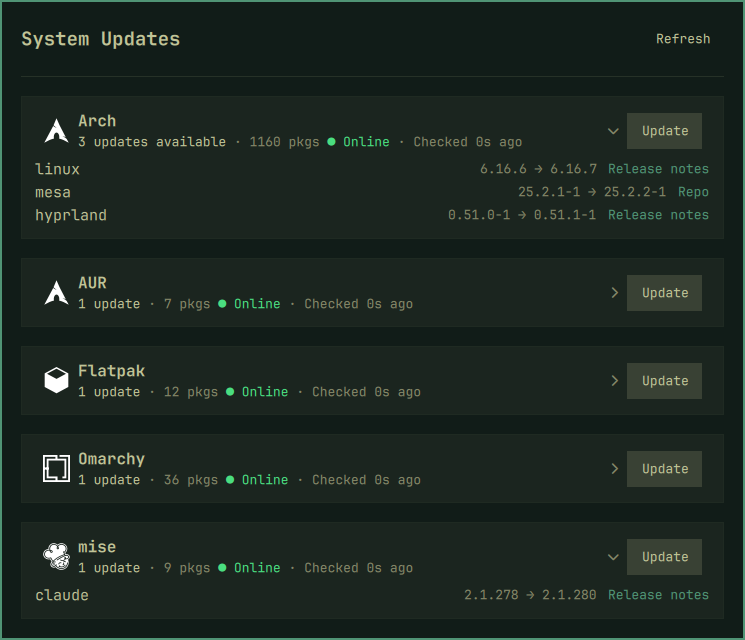
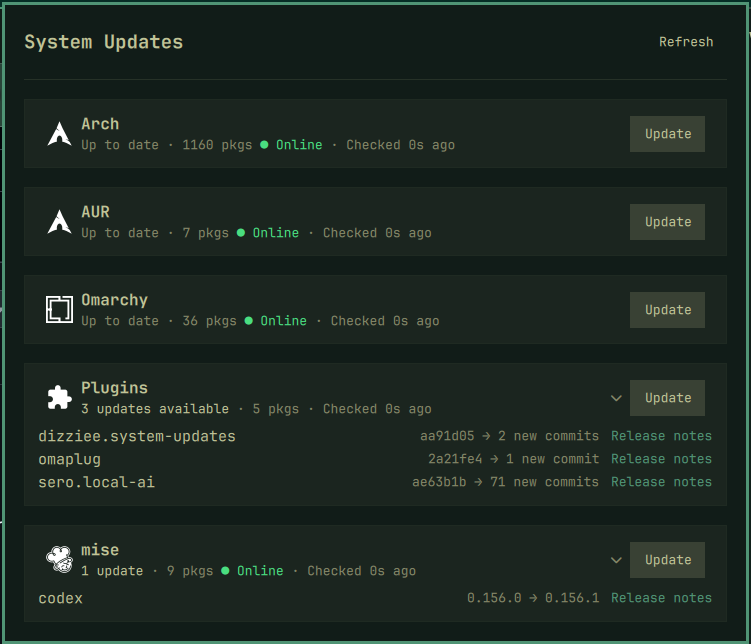
Add Omarchy plugins row with per-plugin update links
Tracks git-managed shell plugins under ~/.config/omarchy/plugins: fetch
origin HEAD per plugin and count commits HEAD is behind, mirroring
omarchy-plugin-update. Each plugin links to its git remote (SSH remotes
rewritten to https). Row hides when no git-managed plugins are installed.

diff --git a/Panel.qml b/Panel.qml
@@ -105,6 +105,7 @@ Panel {
     if (id === "aur") return Qt.resolvedUrl("assets/arch-logo.svg")
     if (id === "flatpak") return Qt.resolvedUrl("assets/flatpak.svg")
     if (id === "omarchy") return Qt.resolvedUrl("assets/omarchy.svg")
+    if (id === "plugins") return Qt.resolvedUrl("assets/plugins.svg")
     if (id === "mise") return Qt.resolvedUrl("assets/mise.svg")
     return ""
   }

diff --git a/scripts/check_updates.py b/scripts/check_updates.py
@@ -31,6 +31,13 @@ GITLAB_HOST_RE = re.compile(r"^https?://(?:www\.)?(gitlab[^/]*)\.([^/]+)/", re.I
 CODEBERG_RE = re.compile(r"^https?://(?:www\.)?codeberg\.org/([^/]+)/([^/#?]+)", re.I)
 # mise registry backends that name a GitHub repository directly.
 MISE_GITHUB_BACKEND_RE = re.compile(r"^(?:aqua|github):([^/\s]+)/([^/\s]+)$")
+# git@host:owner/repo and ssh://git@host/owner/repo remotes.
+SSH_REMOTE_RE = re.compile(r"^(?:ssh://)?(?:[^@/]+@)?([^:/]+)[:/](.+)$")
+
+# Omarchy shell plugins are git checkouts under this directory; "updates" are
+# commits fetched from origin that HEAD is behind.
+PLUGINS_DIR = Path(os.path.expanduser("~")) / ".config" / "omarchy" / "plugins"
+GIT_FETCH_TIMEOUT_S = 15
 
 
 def pkg_counts_cache_path() -> Path:
@@ -137,6 +144,22 @@ def installed_upstream_urls() -> dict[str, str]:
     return urls
 
 
+def normalize_remote(url: str | None) -> str:
+    """Turn a git remote into an https URL (handles git@host:owner/repo)."""
+    value = (url or "").strip()
+    if not value or value.lower().startswith(("http://", "https://")):
+        return value
+    if "://" in value and not value.lower().startswith("ssh://"):
+        return value
+    match = SSH_REMOTE_RE.match(value)
+    if match:
+        host = match.group(1)
+        path = re.sub(r"\.git$", "", match.group(2)).strip("/")
+        if host and path:
+            return f"https://{host}/{path}"
+    return value
+
+
 def resolve_link(
     upstream: str | None, fallback_url: str = "", fallback_label: str = "Repo"
 ) -> dict[str, str]:
@@ -146,7 +169,7 @@ def resolve_link(
     Codeberg upstreams get their releases page; anything else links to the
     upstream URL itself, and a missing upstream falls back to the registry page.
     """
-    url = (upstream or "").strip()
+    url = normalize_remote(upstream)
     if url:
         match = GITHUB_RE.match(url)
         if match:
@@ -176,8 +199,14 @@ def with_links(
 ) -> list[dict[str, str]]:
     linked = []
     for package in packages:
-        link = resolve_link(upstream_urls.get(package["name"]), fallback(package["name"]))
-        linked.append({**package, "url": link["url"], "label": link["label"]})
+        # A package may carry its own `upstream` (e.g. a plugin's git remote);
+        # otherwise fall back to the shared name -> URL map.
+        upstream = package.get("upstream") or upstream_urls.get(package["name"])
+        link = resolve_link(upstream, fallback(package["name"]))
+        entry = {k: v for k, v in package.items() if k != "upstream"}
+        entry["url"] = link["url"]
+        entry["label"] = link["label"]
+        linked.append(entry)
     return linked
 
 
@@ -287,6 +316,71 @@ def check_omarchy() -> list[dict[str, str]]:
             parts = line.split()
             packages.append({"name": parts[0], "from": "", "to": " ".join(parts[1:])})
     return packages
+
+
+def git_plugin_dirs() -> list[Path]:
+    """Installed Omarchy shell plugins that are git checkouts."""
+    try:
+        if not PLUGINS_DIR.is_dir():
+            return []
+        return sorted(d for d in PLUGINS_DIR.iterdir() if (d / ".git").is_dir())
+    except Exception:
+        return []
+
+
+def _run_git(args: list[str], cwd: Path, timeout: int = GIT_FETCH_TIMEOUT_S):
+    try:
+        env = os.environ.copy()
+        env["GIT_TERMINAL_PROMPT"] = "0"
+        env.setdefault("GIT_SSH_COMMAND", "ssh -oBatchMode=yes")
+        return subprocess.run(
+            ["git", "-C", str(cwd), *args],
+            capture_output=True,
+            text=True,
+            timeout=timeout,
+            env=env,
+        )
+    except Exception:
+        return None
+
+
+def plugin_update(dir_path: Path) -> dict[str, str] | None:
+    """Return a package entry for a plugin behind origin, else None.
+
+    Mirrors `omarchy-plugin-update`: fetch origin HEAD, then compare HEAD to
+    FETCH_HEAD. Offline or non-fast-forwardable plugins are simply skipped.
+    """
+    fetch = _run_git(["fetch", "--quiet", "origin", "HEAD"], dir_path)
+    if fetch is None or fetch.returncode != 0:
+        return None
+    head = _run_git(["rev-parse", "HEAD"], dir_path)
+    upstream = _run_git(["rev-parse", "FETCH_HEAD"], dir_path)
+    if head is None or upstream is None or head.returncode != 0 or upstream.returncode != 0:
+        return None
+    head_sha = head.stdout.strip()
+    upstream_sha = upstream.stdout.strip()
+    if not head_sha or not upstream_sha or head_sha == upstream_sha:
+        return None
+    behind = _run_git(["rev-list", "--count", "HEAD..FETCH_HEAD"], dir_path)
+    count = behind.stdout.strip() if behind is not None and behind.returncode == 0 else ""
+    label = f"{count} new commit" + ("" if count == "1" else "s") if count and count != "0" else upstream_sha[:7]
+    remote = _run_git(["remote", "get-url", "origin"], dir_path)
+    remote_url = remote.stdout.strip() if remote is not None and remote.returncode == 0 else ""
+    return {
+        "name": dir_path.name,
+        "from": head_sha[:7],
+        "to": label,
+        "upstream": remote_url,
+    }
+
+
+def check_plugins(dirs: list[Path]) -> list[dict[str, str]]:
+    if not dirs:
+        return []
+    # Each plugin is an independent network fetch; run them concurrently.
+    with ThreadPoolExecutor(max_workers=len(dirs)) as pool:
+        results = list(pool.map(plugin_update, dirs))
+    return [entry for entry in results if entry is not None]
 
 
 def mise_binary() -> str | None:
@@ -436,20 +530,25 @@ def main() -> int:
     if cache is not None and "mise" not in cache["counts"]:
         cache = None
 
+    # Installed git-managed shell plugins (local listing; cheap every run).
+    plugin_dirs = git_plugin_dirs()
+
     # Repo checks hit the network and are independent; run them concurrently so
     # total scan time is the slowest single check instead of the sum of all.
-    with ThreadPoolExecutor(max_workers=5) as pool:
+    with ThreadPoolExecutor(max_workers=6) as pool:
         f_pacman = pool.submit(check_pacman)
         f_aur = pool.submit(check_aur, helper)
         f_flatpak = pool.submit(check_flatpak) if flatpak_installed else None
         f_omarchy = pool.submit(check_omarchy)
         f_mise = pool.submit(check_mise, mise) if mise is not None else None
+        f_plugins = pool.submit(check_plugins, plugin_dirs) if plugin_dirs else None
 
     pacman_updates = f_pacman.result()
     aur_updates = f_aur.result()
     flatpak_updates = f_flatpak.result() if f_flatpak else []
     omarchy_updates = f_omarchy.result()
     mise_updates = f_mise.result() if f_mise else []
+    plugin_updates = f_plugins.result() if f_plugins else []
 
     if cache is not None:
         counts = cache["counts"]
@@ -501,6 +600,11 @@ def main() -> int:
             omarchy_pkgs, "omarchy.svg",
             "omarchy update; echo; read -n 1 -s -r -p 'Done. Press any key to close'",
             True),
+        collect_repo("plugins", "Plugins",
+            with_links(plugin_updates, {}, lambda name: ""),
+            len(plugin_dirs), "plugins.svg",
+            "omarchy plugin update --yes; echo; read -n 1 -s -r -p 'Done. Press any key to close'",
+            bool(plugin_dirs)),
         collect_repo("mise", "mise",
             with_links(mise_updates, mise_urls, mise_fallback_url),
             mise_pkgs, "mise.svg",
@@ -509,7 +613,7 @@ def main() -> int:
     ]
 
     total = (len(pacman_updates) + len(aur_updates) + len(flatpak_updates)
-             + len(omarchy_updates) + len(mise_updates))
+             + len(omarchy_updates) + len(plugin_updates) + len(mise_updates))
 
     result = {
         "repos": repos,

diff --git a/tests/test_check_updates.py b/tests/test_check_updates.py
@@ -274,6 +274,92 @@ class WithLinksTests(unittest.TestCase):
         self.assertEqual(result[0]["url"], "https://fallback/foo")
 
 
+class NormalizeRemoteTests(unittest.TestCase):
+    def test_scp_style_ssh_remote(self):
+        self.assertEqual(
+            check_updates.normalize_remote("git@github.com:dbachelder/omarchy-istats.git"),
+            "https://github.com/dbachelder/omarchy-istats",
+        )
+
+    def test_ssh_url_remote(self):
+        self.assertEqual(
+            check_updates.normalize_remote("ssh://git@github.com/owner/repo.git"),
+            "https://github.com/owner/repo",
+        )
+
+    def test_https_passthrough(self):
+        self.assertEqual(
+            check_updates.normalize_remote("https://github.com/owner/repo.git"),
+            "https://github.com/owner/repo.git",
+        )
+
+    def test_other_scheme_passthrough(self):
+        self.assertEqual(
+            check_updates.normalize_remote("git://example.org/repo"),
+            "git://example.org/repo",
+        )
+
+    def test_empty(self):
+        self.assertEqual(check_updates.normalize_remote(None), "")
+
+
+class PluginUpdateTests(unittest.TestCase):
+    def setUp(self):
+        self._real = check_updates._run_git
+        self.responses = {}
+        check_updates._run_git = self._fake
+        self.addCleanup(lambda: setattr(check_updates, "_run_git", self._real))
+
+    def _fake(self, args, cwd, timeout=None):
+        key = " ".join(args)
+        if key in self.responses:
+            return self.responses[key]
+        if args[0] == "fetch":
+            return completed()
+        return completed(returncode=1)
+
+    def test_reports_plugin_behind_origin(self):
+        self.responses["rev-parse HEAD"] = completed(stdout="aaaaaaa1111")
+        self.responses["rev-parse FETCH_HEAD"] = completed(stdout="bbbbbbb2222")
+        self.responses["rev-list --count HEAD..FETCH_HEAD"] = completed(stdout="3")
+        self.responses["remote get-url origin"] = completed(
+            stdout="git@github.com:owner/repo.git"
+        )
+        entry = check_updates.plugin_update(Path("/plugins/cool-plugin"))
+        self.assertEqual(entry["name"], "cool-plugin")
+        self.assertEqual(entry["from"], "aaaaaaa")
+        self.assertEqual(entry["to"], "3 new commits")
+        self.assertEqual(entry["upstream"], "git@github.com:owner/repo.git")
+
+    def test_single_commit_label_is_singular(self):
+        self.responses["rev-parse HEAD"] = completed(stdout="aaaaaaa1111")
+        self.responses["rev-parse FETCH_HEAD"] = completed(stdout="bbbbbbb2222")
+        self.responses["rev-list --count HEAD..FETCH_HEAD"] = completed(stdout="1")
+        self.assertEqual(check_updates.plugin_update(Path("/plugins/p"))["to"], "1 new commit")
+
+    def test_up_to_date_is_none(self):
+        self.responses["rev-parse HEAD"] = completed(stdout="same")
+        self.responses["rev-parse FETCH_HEAD"] = completed(stdout="same")
+        self.assertIsNone(check_updates.plugin_update(Path("/plugins/p")))
+
+    def test_fetch_failure_is_none(self):
+        self.responses["fetch --quiet origin HEAD"] = completed(returncode=1)
+        self.assertIsNone(check_updates.plugin_update(Path("/plugins/p")))
+
+    def test_check_plugins_skips_current(self):
+        def fake(dir_path):
+            return None if dir_path.name == "current" else {"name": dir_path.name}
+
+        self._real = check_updates.plugin_update
+        check_updates.plugin_update = fake
+        self.addCleanup(lambda: setattr(check_updates, "plugin_update", self._real))
+        result = check_updates.check_plugins([Path("/plugins/behind"), Path("/plugins/current")])
+        self.assertEqual([p["name"] for p in result], ["behind"])
+
+    def test_check_plugins_empty(self):
+        self.assertEqual(check_updates.check_plugins([]), [])
+
+
 class MainIntegrationTests(unittest.TestCase):
     """main() must surface per-repo package detail and include mise in the total."""
 
@@ -291,6 +377,11 @@ class MainIntegrationTests(unittest.TestCase):
             "installed_pkg_names": lambda: set(),
             "installed_upstream_urls": lambda: {"linux": "https://github.com/torvalds/linux"},
             "omarchy_pkg_count": lambda installed: 0,
+            "git_plugin_dirs": lambda: [Path("/plugins/one"), Path("/plugins/two")],
+            "check_plugins": lambda dirs: [
+                {"name": "one", "from": "abc1234", "to": "2 new commits",
+                 "upstream": "git@github.com:owner/one.git"}
+            ],
             "load_cache": lambda: None,
             "save_cache": lambda counts, urls: self.saved.update(counts),
         }.items():
@@ -322,8 +413,20 @@ class MainIntegrationTests(unittest.TestCase):
         self.assertEqual(mise[0]["pkgCount"], 8)
         self.assertTrue(mise[0]["installed"])
         self.assertIn("mise up", mise[0]["updateCmd"])
-        self.assertEqual(result["total"], 5)
+        self.assertEqual(result["total"], 6)
         self.assertEqual(self.saved["mise"], 8)
+
+    def test_reports_plugins_row(self):
+        result = self._run()
+        plugins = [r for r in result["repos"] if r["id"] == "plugins"][0]
+        self.assertTrue(plugins["installed"])
+        self.assertEqual(plugins["count"], 1)
+        self.assertEqual(plugins["pkgCount"], 2)
+        self.assertIn("omarchy plugin update", plugins["updateCmd"])
+        package = plugins["packages"][0]
+        # The plugin's own SSH remote becomes an https release-notes link.
+        self.assertEqual(package["url"], "https://github.com/owner/one/releases")
+        self.assertEqual(package["label"], "Release notes")
 
     def test_emits_packages_with_links(self):
         result = self._run()
@@ -345,7 +448,15 @@ class MainIntegrationTests(unittest.TestCase):
         result = self._run()
         mise = [r for r in result["repos"] if r["id"] == "mise"][0]
         self.assertFalse(mise["installed"])
-        self.assertEqual(result["total"], 3)
+        self.assertEqual(result["total"], 4)
+
+    def test_plugins_row_hidden_when_none_installed(self):
+        check_updates.git_plugin_dirs = lambda: []
+        result = self._run()
+        plugins = [r for r in result["repos"] if r["id"] == "plugins"][0]
+        self.assertFalse(plugins["installed"])
+        self.assertEqual(plugins["count"], 0)
+        self.assertEqual(result["total"], 5)
 
 
 if __name__ == "__main__":

diff --git a/README.md b/README.md
@@ -1,6 +1,6 @@
 # dizziee.system-updates
 
-System update indicator for the Omarchy bar. Shows available updates from pacman, AUR, Flatpak, Omarchy, and mise, with per-repo update buttons.
+System update indicator for the Omarchy bar. Shows available updates from pacman, AUR, Flatpak, Omarchy, Omarchy shell plugins, and mise, with per-repo update buttons.
 
 ## Requirements
 
@@ -8,6 +8,7 @@ System update indicator for the Omarchy bar. Shows available updates from pacman
 - AUR helper (`yay`, `paru`, etc.) — optional, AUR detection is automatic
 - `flatpak` — optional
 - `mise` — optional, ships with Omarchy
+- `git` — optional, for the Plugins row (git-managed shell plugins)
 
 ## Installation
 
@@ -59,6 +60,16 @@ AUR updates run through your helper (`yay -Sua` / `paru -Sua`), Flatpak through 
 
 The **Omarchy** update button opens your terminal and runs `omarchy update` — the full managed Omarchy update pipeline (transcript, snapshot, keyrings, migrations, and post-update hooks).
 
+### Plugins
+
+The **Plugins** row tracks the git-managed Omarchy shell plugins under `~/.config/omarchy/plugins`. For each one it fetches `origin` and counts how many commits `HEAD` is behind, mirroring what `omarchy-plugin-update` does. Its update button runs:
+
+```sh
+omarchy plugin update --yes
+```
+
+Only plugins that are git checkouts are considered; non-git plugins and plugins with no upstream are ignored. The row is hidden when no git-managed plugins are installed.
+
 ### mise
 
 The **mise** row counts the tools configured in your global `~/.config/mise/config.toml`, so a stale `claude`, `codex`, or `opencode` pin shows up alongside your system packages. It mirrors what Omarchy's own `omarchy-update-mise` installs by dropping mise's release cooldown:
@@ -77,7 +88,7 @@ After clicking **Update**, the widget watches the Hyprland event socket (`Quicks
 
 Click any repo row to expand it and list the packages with updates pending, with their version change. Each package links to its **release notes** when the upstream is a known code host (GitHub, GitLab, or Codeberg), and to its **repo/homepage** otherwise. Flatpak entries link to the Flathub app page, and rows with nothing pending are not expandable.
 
-Links resolve offline from local package metadata (`expac -Q '%n|%u'`, falling back to `pacman -Qi`), Flathub app IDs, and the mise registry — no per-package network calls. The upstream URL map rides the same 24h disk cache as the package counts.
+Links resolve offline from local package metadata (`expac -Q '%n|%u'`, falling back to `pacman -Qi`), Flathub app IDs, the mise registry, and each plugin's git remote (SSH remotes are rewritten to https) — no per-package network calls. The upstream URL map rides the same 24h disk cache as the package counts.
 
 ## Preview
 
